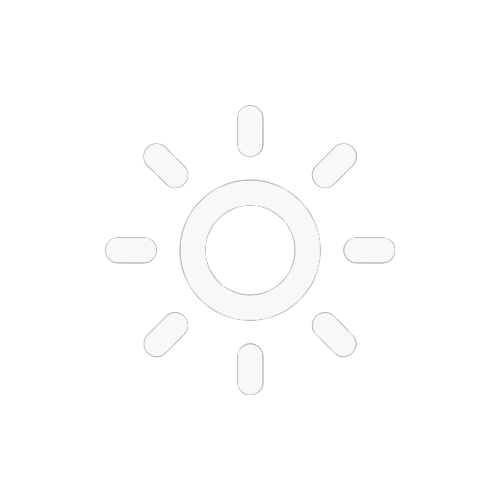
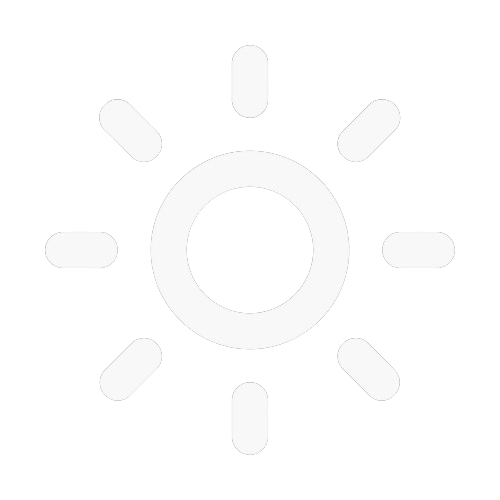
commit toggle curves

diff --git a/index.html b/index.html
@@ -38,10 +38,9 @@
             <section>
                 <h2>past</h2>
                 <ul>
-                    <li><strong>Solar Proj</strong> / <span class="lighter-text">Attempted to build a consumer app to find memories from your favorite apps.</span></li>
-                    <li><strong>Model UN</strong> / <span class="lighter-text">Built advertising feature in Messenger and played soccer during lunch breaks.</span></li>
+                    <li><strong>Solar System Simulator</strong> / <span class="lighter-text"> Built an animated solar system model made with Python Turtle to teach students.</span></li>
                     <li><strong>Imaginary Internship</strong> / <span class="lighter-text">First startup I got lucky enough to join. Helped code their website.</span></li>
-                    <li><strong>University of Michigan</strong> / <span class="lighter-text">Conducted comparative study on brif and bsnsing packages co-authored a paper.</span></li>
+                    <li><strong>IA Model UN</strong> / <span class="lighter-text">Managed 200+ members at conferences where delegates debate global issues.</span></li>
                     <li><strong>Wayne State University</strong> / <span class="lighter-text">Conducted comparative study on brif and bsnsing packages co-authored a paper.</span></li>
                 </ul>
             </section>

diff --git a/styles.css b/styles.css
@@ -85,6 +85,7 @@ header {
     width: 26px;
     height: 26px;
     transition: opacity 0.3s ease, transform 0.2s ease;
+    border-radius: 5px; /* Adds curved edges */
 }
 
 #theme-toggle:hover img {
